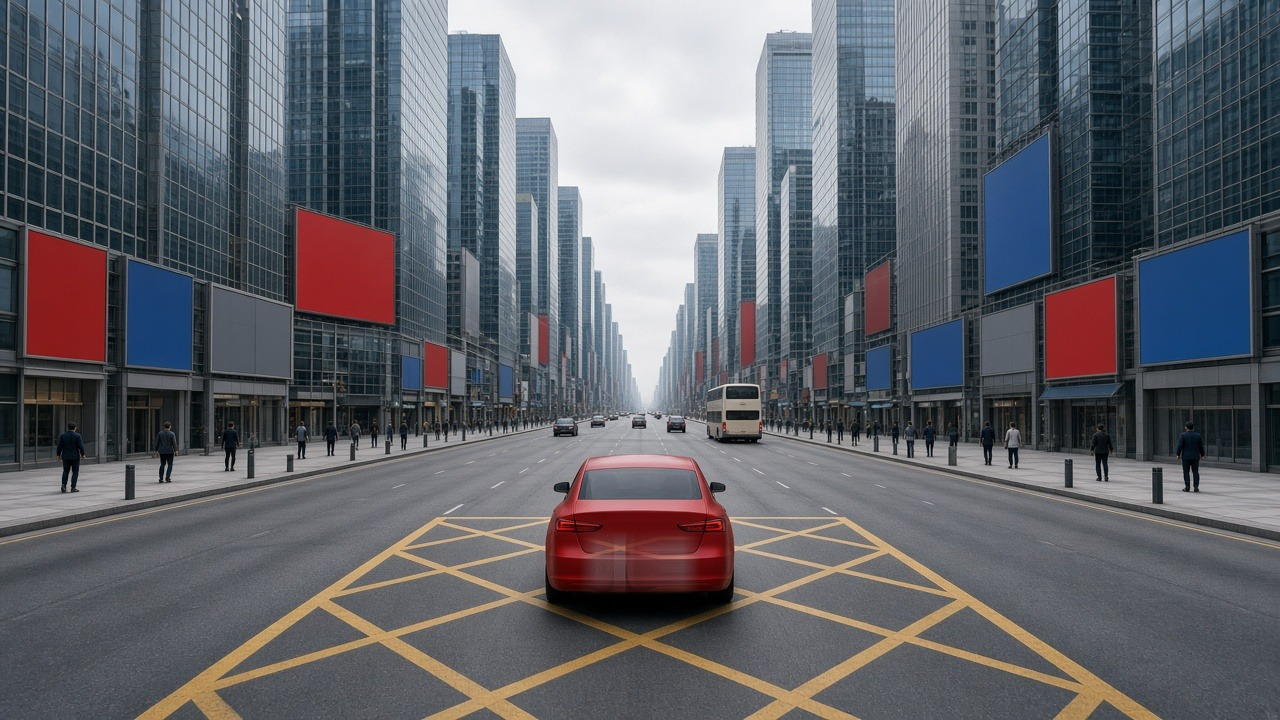
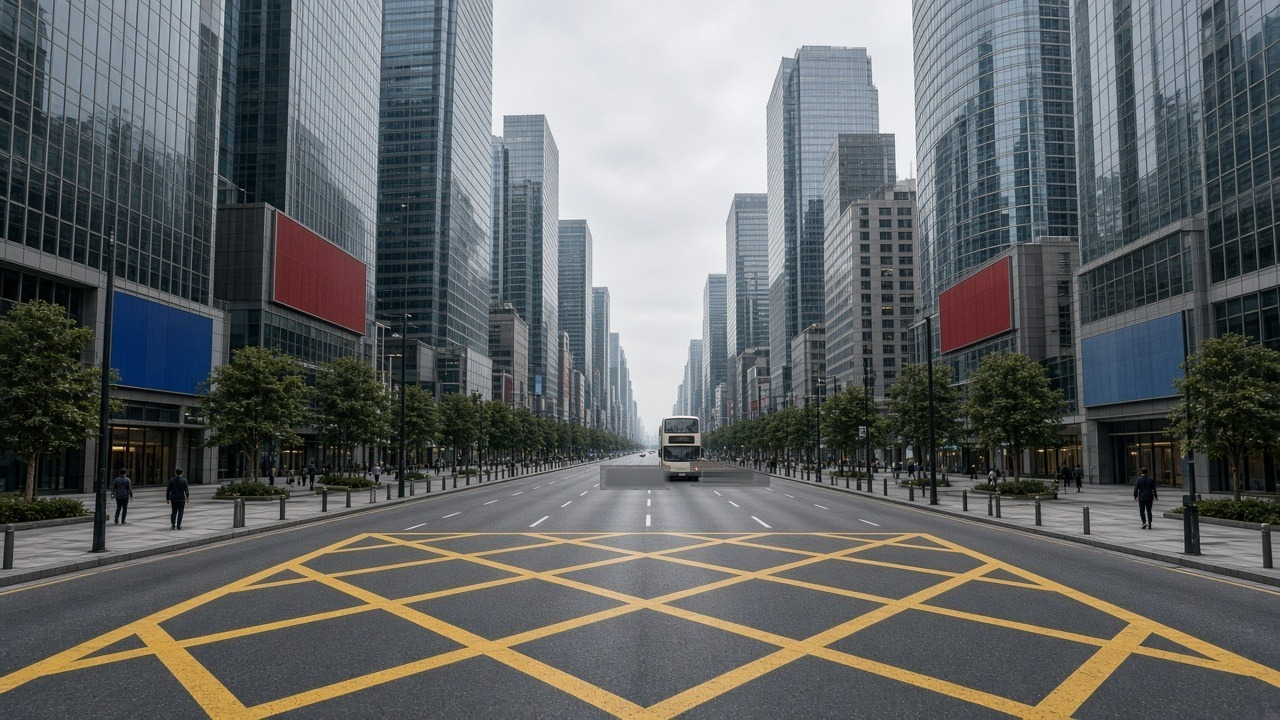
fix: retouch vehicle plate patches on synthetic street.jpg; honest CREDITS

diff --git a/public/iol/CREDITS.md b/public/iol/CREDITS.md
@@ -7,7 +7,7 @@ Updated 2026-10-08.
 `/iol` does **not** use this file. `/iol` uses `far.jpg`, `mid.jpg`, `near.jpg` and `night.jpg` instead.
 
 - **Nature of the picture:** Synthetic hyper-real street scene. It is **not** a photograph of a real street or place.
-- **How it was made:** Generated with **Cursor GenerateImage** on **2026-10-08**, then lightly retouched (1280 × 720 JPEG export; trunk centre retextured so no plate-shaped blank remained).
+- **How it was made:** Generated with **Cursor GenerateImage** on **2026-10-08**, then lightly retouched in-file (1280 × 720 JPEG). Vehicle plate areas were painted over so each is an unmarked panel with no characters.
 - **Content constraints for this site:** the frame has no readable vehicle plates, faces, shop names, clinic names, or product brands. Any field blur on `/tools/tunnel` comes only from the simulator’s field-loss effect, not from the base picture.
 
 ## Other files in this folder
